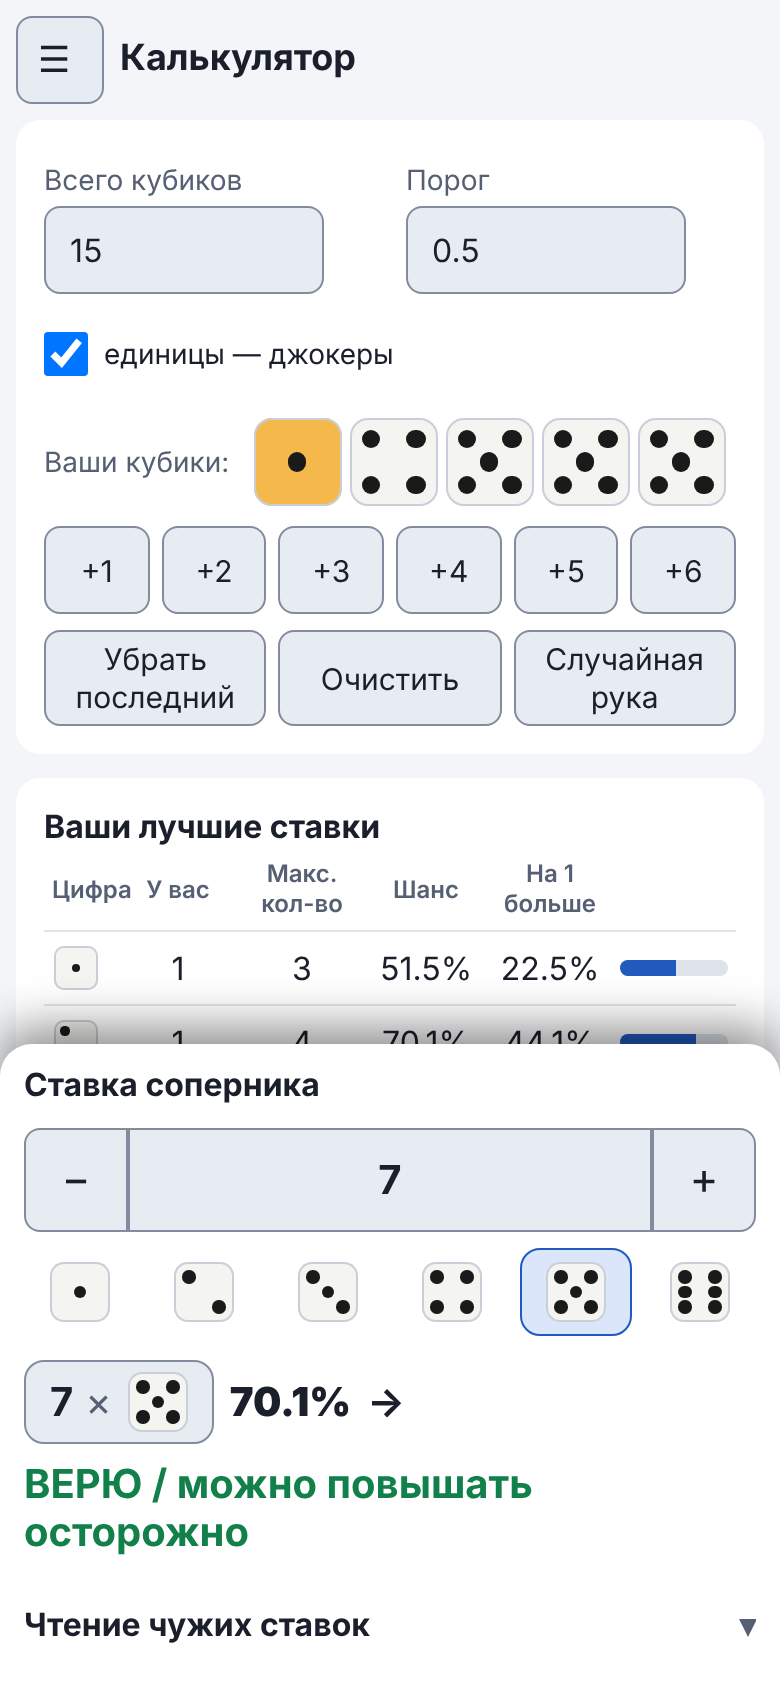
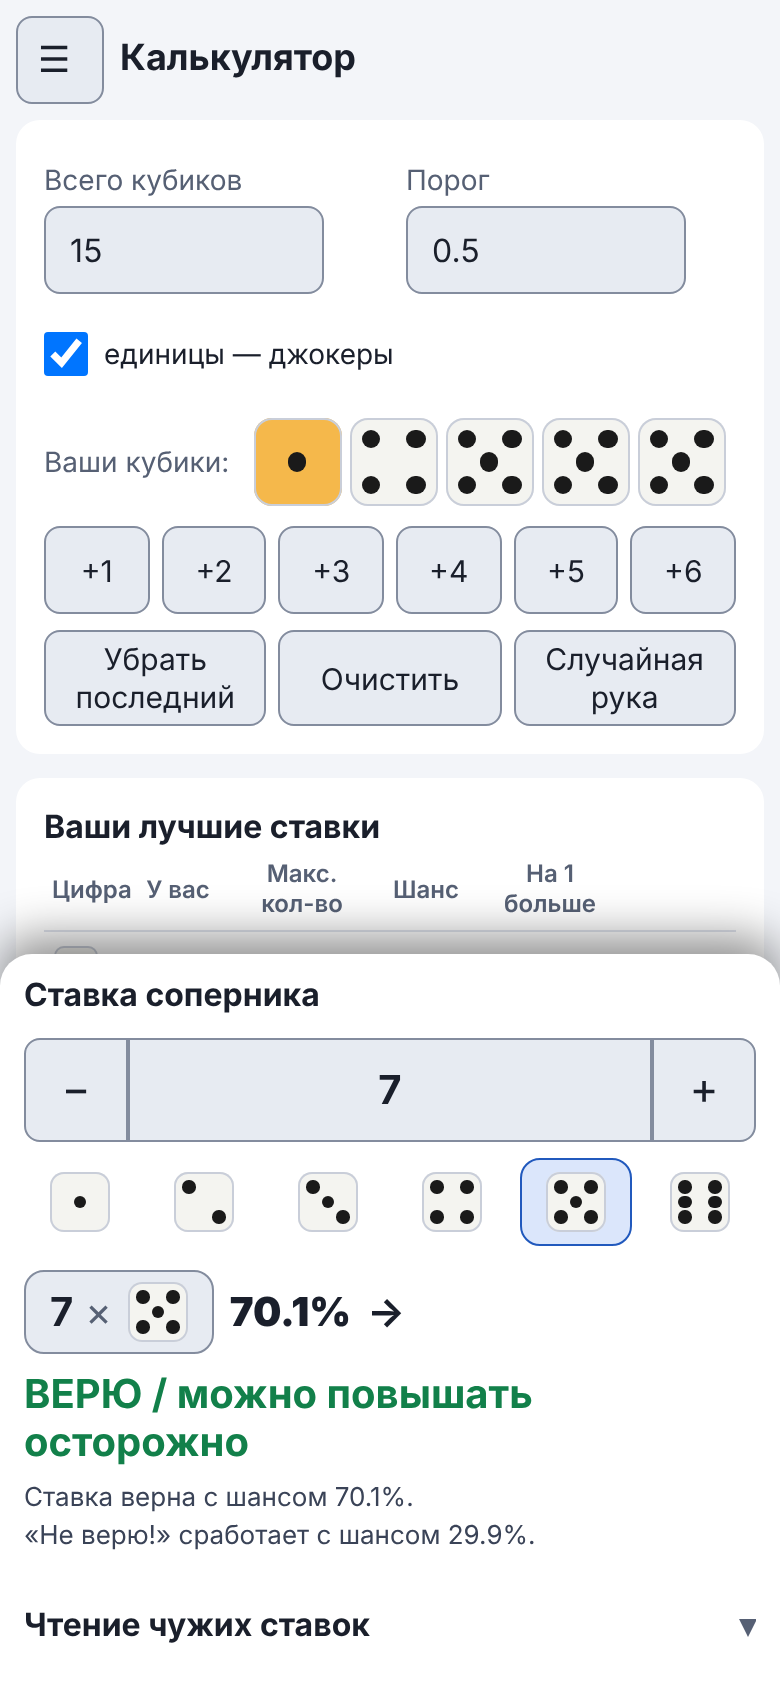
Калькулятор: шанс ставки и шанс проверки «Не верю!» человеческим языком
Под процентом и вердиктом две строки: «Ставка верна с шансом …» и
«Не верю!» сработает с шансом …», вместе 100 %. Тексты в чистом модуле
calc_text.js. Страница руководства и три снимка калькулятора обновлены.
В план отмечен пункт W1-03.

Changed region(s): [[0.0, 0.5237, 1.0, 0.9242]]

diff --git a/tests/calc_text.test.js b/tests/calc_text.test.js
@@ -1,0 +1,28 @@
+import { describe, it } from 'node:test';
+import assert from 'node:assert/strict';
+import { calcExplainLines } from '../src/calc_text.js';
+
+const fmt = (x) => `${(x * 100).toFixed(1)}%`;
+const BANNED = /обманщик|врёт|блеф|гарантир|точно|всегда/i;
+
+describe('calcExplainLines', () => {
+  it('две строки: шанс ставки и дополняющий шанс проверки', () => {
+    assert.deepEqual(calcExplainLines(0.62, fmt), ['Ставка верна с шансом 62.0%.', '«Не верю!» сработает с шансом 38.0%.']);
+  });
+  it('границы 0 и 1 дают 0 % и 100 %, сумма всегда 100 %', () => {
+    assert.deepEqual(calcExplainLines(0, fmt), ['Ставка верна с шансом 0.0%.', '«Не верю!» сработает с шансом 100.0%.']);
+    assert.deepEqual(calcExplainLines(1, fmt), ['Ставка верна с шансом 100.0%.', '«Не верю!» сработает с шансом 0.0%.']);
+    for (let i = 0; i <= 200; i++) {
+      const p = i / 200;
+      const [a, b] = calcExplainLines(p, fmt).map((l) => Number(l.match(/(\d+\.\d)%/)[1]));
+      assert.ok(Math.abs(a + b - 100) < 0.11, `p=${p}: ${a} + ${b}`);
+    }
+  });
+  it('мусор вместо вероятности или форматтера даёт пустой список', () => {
+    for (const bad of [NaN, Infinity, -0.1, 1.1, '0.5', null, undefined, {}]) assert.deepEqual(calcExplainLines(bad, fmt), [], String(bad));
+    assert.deepEqual(calcExplainLines(0.5, null), []);
+  });
+  it('тексты не содержат запрещённых слов и не называют результат гарантированным', () => {
+    for (const l of calcExplainLines(0.37, fmt)) assert.doesNotMatch(l, BANNED);
+  });
+});

diff --git a/tests/e2e/learning.spec.js b/tests/e2e/learning.spec.js
@@ -33,6 +33,21 @@ test.describe('Учебные вкладки', () => {
       await expect(res).toContainText('НЕ ВЕРЮ');
     });
 
+    test('под процентом две строки: шанс ставки и шанс проверки «Не верю!», вместе 100 %', async ({ page }) => {
+      await open(page, 'calc');
+      const lines = page.locator('#cRes .calc-explain span');
+      await expect(lines).toHaveCount(2);
+      await expect(lines.nth(0)).toHaveText('Ставка верна с шансом 44.1%.');          // рука 1,3,5,5,6; ставка 7×5
+      await expect(lines.nth(1)).toHaveText('«Не верю!» сработает с шансом 55.9%.');
+      // сумма остаётся 100 % при любой ставке; слов о блефе нет
+      for (const q of ['1', '3', '12', '15']) {
+        await page.fill('#cQ', q);
+        const [a, b] = (await lines.allTextContents()).map((t) => Number(t.match(/(\d+(?:\.\d)?)%/)[1]));
+        expect(Math.abs(a + b - 100)).toBeLessThan(0.11);
+      }
+      expect(await page.locator('#cRes').textContent()).not.toMatch(/блеф|обман|undefined|NaN/i);
+    });
+
     test('вердикт меняется вместе со ставкой', async ({ page }) => {
       await open(page, 'calc');
       await page.fill('#cQ', '3');

diff --git a/src/calc_text.js b/src/calc_text.js
@@ -1,0 +1,18 @@
+// calc_text.js — пояснение к проценту в калькуляторе. Чистый модуль: без DOM.
+//
+// Один процент легко принять за шанс успеха «Не верю!». На самом деле это шанс, что ставка соперника верна;
+// шанс успешной проверки — дополнение до 100 %. Расчёт идёт по вашим кубикам, чужие считаются случайными.
+
+/**
+ * Две строки пояснения к вероятности ставки.
+ * @param {number} p вероятность, что ставка верна (0…1)
+ * @param {(x: number) => string} fmt форматирование процента (как в остальном интерфейсе)
+ * @returns {string[]} пустой массив, если вероятность не число из [0, 1]
+ */
+export function calcExplainLines(p, fmt) {
+  if (typeof p !== 'number' || !Number.isFinite(p) || p < 0 || p > 1 || typeof fmt !== 'function') return [];
+  return [
+    `Ставка верна с шансом ${fmt(p)}.`,
+    `«Не верю!» сработает с шансом ${fmt(1 - p)}.`,
+  ];
+}

diff --git a/docs/guide/calculator.html b/docs/guide/calculator.html
@@ -27,7 +27,7 @@
       <li>Укажите <strong>всего кубиков</strong> на столе (по умолчанию 15) и отметьте, считаются ли единицы джокерами.</li>
       <li>Введите <strong>свои кубики</strong>: нажимайте цифры на панели или возьмите «Случайную руку».</li>
       <li>Введите <strong>ставку соперника</strong>, например «7 × 5».</li>
-      <li>Получите <strong>шанс, что ставка верна</strong>, и вердикт: «Верю» или «Не верю».</li>
+      <li>Получите <strong>шанс, что ставка верна</strong>, и вердикт: «Верю» или «Не верю». Под ним две строки: «Ставка верна с шансом …» и «Не верю! сработает с шансом …». Это одно число с двух сторон: вместе они дают 100 %. Показанный процент (крупно) это шанс, что ставка верна, а не шанс, что проверка сработает.</li>
     </ol>
 
     <figure>

diff --git a/src/ui/calculator.js b/src/ui/calculator.js
@@ -2,6 +2,7 @@
 
 import { renderDie, renderHand, renderBid } from '../table.js';
 import { P, $, $$, pct } from './common.js';
+import { calcExplainLines } from '../calc_text.js';
 
 export function setupCalculator() {
   if (!P) return;
@@ -87,7 +88,8 @@ export function setupCalculator() {
     if ($('#cRes')) {
       const verdict = p >= t ? 'ВЕРЮ / можно повышать осторожно' : 'НЕ ВЕРЮ';
       $('#cRes').innerHTML =
-        `${renderBid(q, f)} <b>${pct(p)}</b> → <span class="${p >= t ? 'text-ok' : 'text-bad'}">${verdict}</span>`;
+        `${renderBid(q, f)} <b>${pct(p)}</b> → <span class="${p >= t ? 'text-ok' : 'text-bad'}">${verdict}</span>` +
+        `<div class="calc-explain">${calcExplainLines(p, pct).map((l) => `<span>${l}</span>`).join('')}</div>`;
     }
 
     const unk = n - hand.length;

diff --git a/src/css/learn.css b/src/css/learn.css
@@ -154,6 +154,18 @@
   gap: var(--space-2);
 }
 
+/* Пояснение к проценту: две короткие строки под вердиктом */
+.calc-explain {
+  flex: 1 0 100%;
+  display: flex;
+  flex-direction: column;
+  gap: 2px;
+  font-size: 13px;
+  font-weight: 400;
+  line-height: 1.35;
+  color: var(--text-soft);
+}
+
 #cDock .face-pick,
 #cDock .stepper,
 #tDock .face-pick,

diff --git a/docs/dev/roadmap.md b/docs/dev/roadmap.md
@@ -4,7 +4,7 @@
 
 **Как вести файл.** Пункт выполнен, когда его патч применён и проверен: в строке меняется `[ ]` на `[x]` и в поле «Патч» ставится номер. Отметку делает тот же патч, который закрывает пункт. Тест `tests/roadmap.test.js` следит, чтобы ID не повторялись, у выполненных был номер патча, а счётчик ниже совпадал со списком.
 
-Выполнено: 3 из 25
+Выполнено: 4 из 25
 
 Формат строки: `- [ ] **ID** · размер (S, M, L) · название (замечания из отчёта) — критерий готовности. Патч: номер или —`.
 
@@ -16,7 +16,7 @@
 
 - [x] **W1-01** · M · Настоящий режим «Пошагово» и совет в FAQ (UX-06) — бот ходит только после кнопки игрока, остальные темпы не меняются; подпись в настройках и текст FAQ совпадают с поведением. Патч: 128
 - [x] **W1-02** · S · Кнопка итога «Разобрать партию» вместо «Перейти к расчёту» (UX-11) — название обещает то, что открывается; страница `game-review.html` и тесты обновлены. Патч: 129
-- [ ] **W1-03** · S · Вероятность человеческим языком в калькуляторе (UX-04) — рядом с процентом видно: «Ставка верна — …%; проверка успешна — …%». Патч: —
+- [x] **W1-03** · S · Вероятность человеческим языком в калькуляторе (UX-04) — рядом с процентом видно: «Ставка верна — …%; проверка успешна — …%». Патч: 130
 - [ ] **W1-04** · S · Пример к полю чтения ставок (UX-16) — подпись объясняет, что вводится размер рук ставивших, а не ожидаемые совпадения. Патч: —
 - [ ] **W1-05** · S · Оговорка модели у «Хорошего решения» в Тренажёре (UX-15) — на экране сказано, что оценка идёт по шансу ставки, а не по выигрышу партии. Патч: —
 - [ ] **W1-06** · S · Вводная «Упражнений» перечисляет все три упражнения (UX-13) — есть ссылка на «Читай вскрытие». Патч: —

diff --git a/docs/dev/architecture.md b/docs/dev/architecture.md
@@ -51,6 +51,7 @@ src/
 ├── drill_note.js    пояснения к ответу в «Оценке в уме»             ← чистая логика
 ├── read_drill.js    упражнение «Читай вскрытие»: задание по раунду и проверка ← чистая логика
 ├── game_picture.js  «Картина партии»: кубики по раундам, потери, переломный раунд, лидер ← чистая логика
+├── calc_text.js     пояснение к проценту в калькуляторе: шанс ставки и шанс проверки ← чистая логика
 ├── bot_pace.js      темп ходов ботов: задержка или «Пошагово» (ход по кнопке) ← чистая логика
 ├── guess.js         догадка перед вскрытием: «цифра в руке есть / нет», проверка, счётчик ← чистая логика
 ├── dice_chart.js    график «кубики по раундам» (SVG-строка, оформление классами) ← чистая логика
